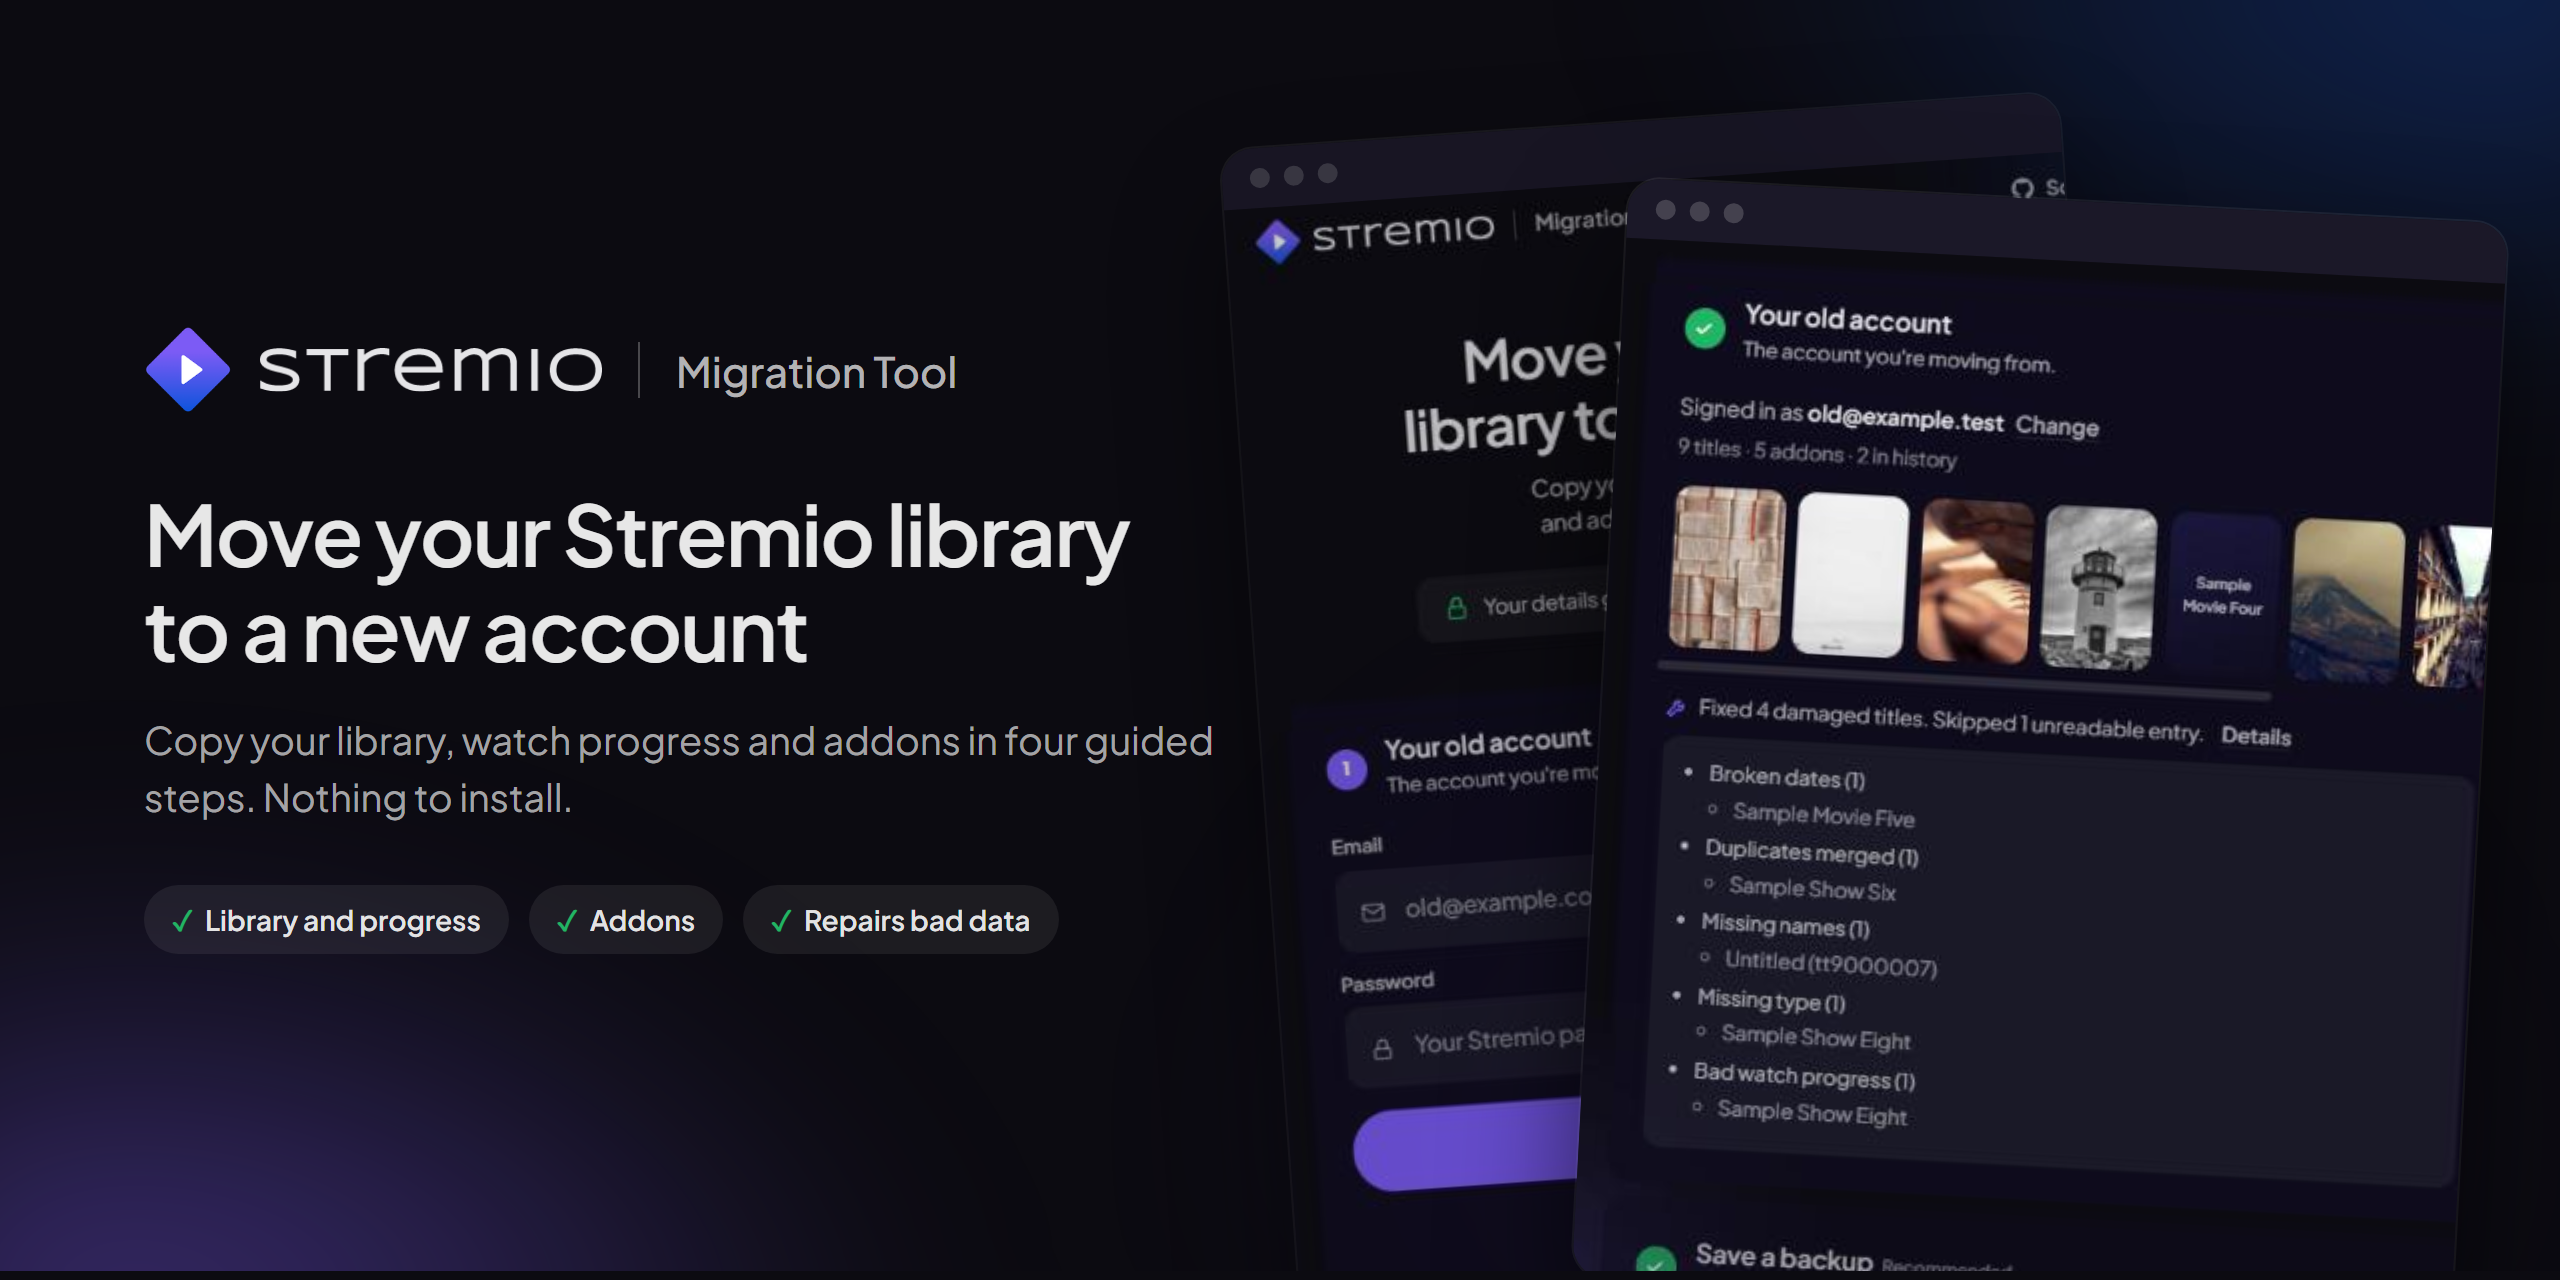
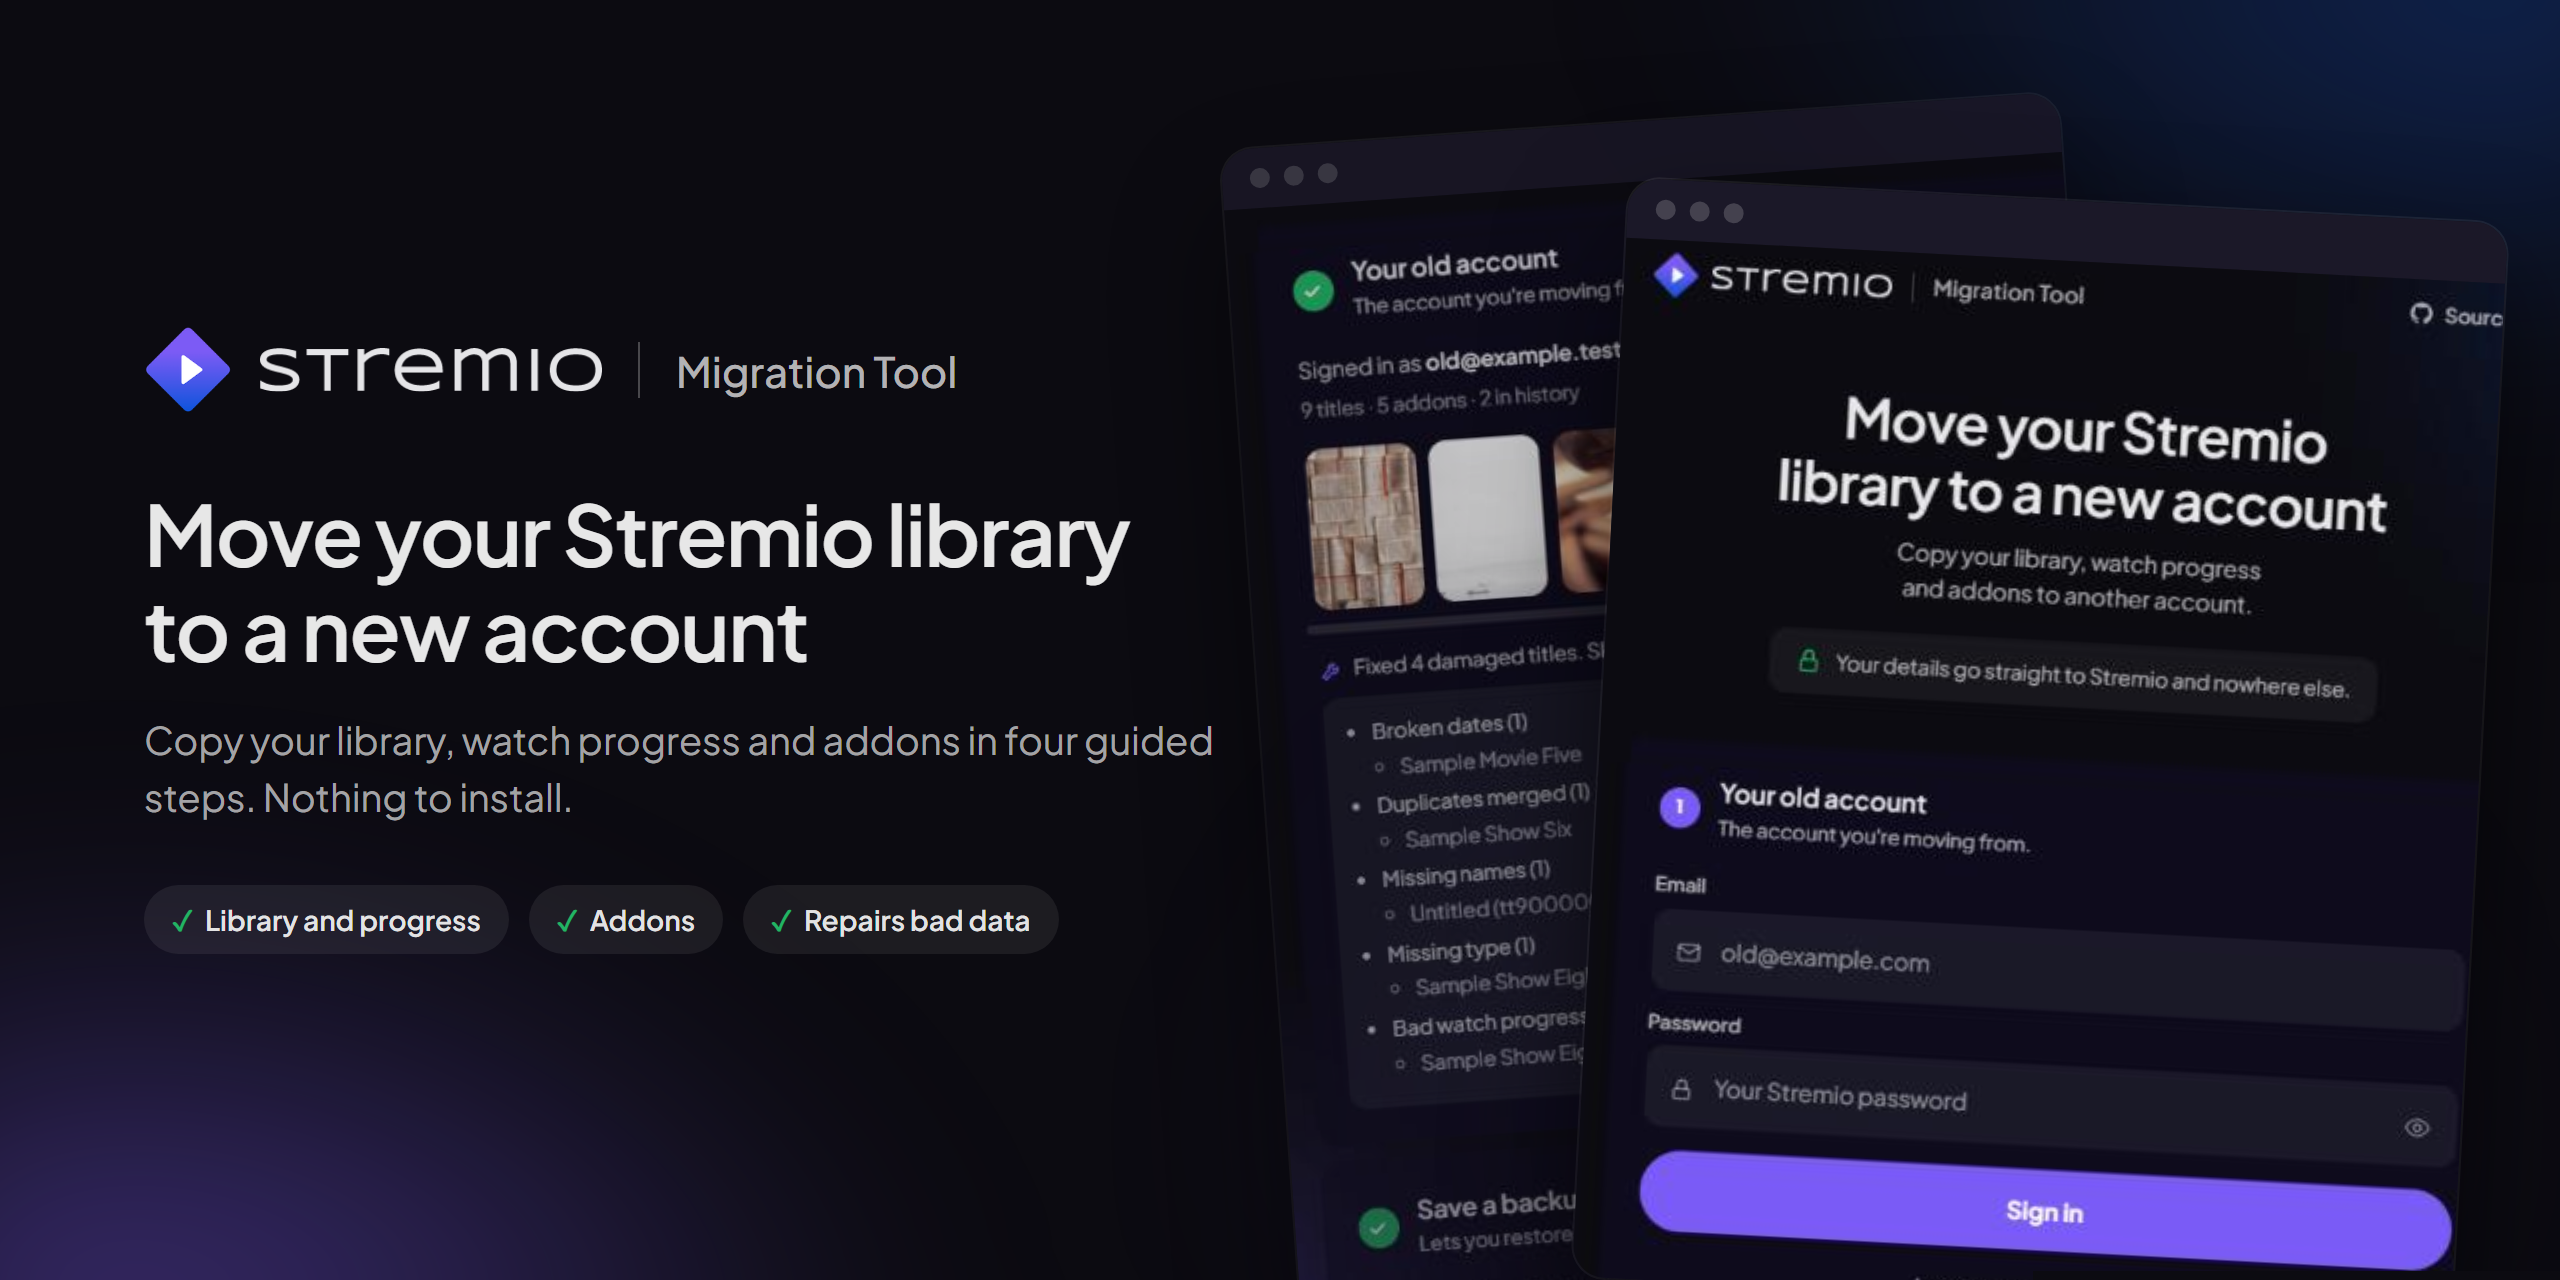
Tidy the README header and trim the usage section
Center the buttons with even spacing above and below, put the sign-in
screen in front in the hero banner, and remove the flow diagram and
the two screenshots under the steps.

diff --git a/README.md b/README.md
@@ -1,19 +1,10 @@
 <div align="center">
 
-<img src=".github/assets/hero.png" alt="Stremio Migration Tool: move your Stremio library to a new account" width="100%">
+<p><img src=".github/assets/hero.png" alt="Stremio Migration Tool: move your Stremio library to a new account" width="100%"></p>
 
-<br>
+<a href="https://robbydock.github.io/stremio-migration-tool/"><img src=".github/assets/button-open.svg" alt="Open the tool" height="52"></a> <a href="https://raw.githubusercontent.com/RobbyDock/stremio-migration-tool/main/index.html"><img src=".github/assets/button-download.svg" alt="Download a local copy" height="52"></a>
 
-<a href="https://robbydock.github.io/stremio-migration-tool/"><img src=".github/assets/button-open.svg" alt="Open the tool" height="52"></a>
-&nbsp;
-<a href="https://raw.githubusercontent.com/RobbyDock/stremio-migration-tool/main/index.html"><img src=".github/assets/button-download.svg" alt="Download a local copy" height="52"></a>
-
-<br><br>
-
-![Runs in your browser](https://img.shields.io/badge/runs_in-your_browser-7b5bf5?style=flat-square)
-![Nothing to install](https://img.shields.io/badge/install-nothing-22b365?style=flat-square)
-![Single file](https://img.shields.io/badge/single-index.html-1245a6?style=flat-square)
-![Unofficial](https://img.shields.io/badge/unofficial-not_affiliated_with_Stremio-555?style=flat-square)
+![Runs in your browser](https://img.shields.io/badge/runs_in-your_browser-7b5bf5?style=flat-square) ![Nothing to install](https://img.shields.io/badge/install-nothing-22b365?style=flat-square) ![Single file](https://img.shields.io/badge/single-index.html-1245a6?style=flat-square) ![Unofficial](https://img.shields.io/badge/unofficial-not_affiliated_with_Stremio-555?style=flat-square)
 
 </div>
 
@@ -36,31 +27,12 @@ This tool copies your **library**, **watch progress** and **addons** from one St
 
 ## 🚀 How to use it
 
-```mermaid
-flowchart LR
-    A["1⃣ Old account<br>Sign in or load a backup"] --> B["2⃣ Backup<br>Download or skip"]
-    B --> C["3⃣ New account<br>Sign in"]
-    C --> D["4⃣ Copy<br>Choose library and addons"]
-    D --> E(["🎉 Done<br>Sign in to Stremio with the new account"])
-```
-
 1. **Your old account.** Sign in to the account you are moving from. The tool reads your library and addons and checks them. If you already have a backup file, select **Load a backup file instead**.
 2. **Save a backup.** Select **Download backup**. This is optional but recommended.
 3. **Your new account.** Sign in to the account you are moving to. No account yet? Select **Create a new account**.
 4. **Copy to new account.** Choose what to copy and start. The tool confirms when every item has arrived.
 
 When it is finished, sign out of Stremio on your devices and sign in with the new account.
-
-<table>
-  <tr>
-    <td width="50%"><img src="screenshots/main.jpg" alt="Step 1: sign in to your old account"></td>
-    <td width="50%"><img src="screenshots/done.jpg" alt="Step 4: copy finished"></td>
-  </tr>
-  <tr>
-    <td align="center"><sub>Sign in and see your library</sub></td>
-    <td align="center"><sub>Copy finished and verified</sub></td>
-  </tr>
-</table>
 
 ## 🩺 Data check and repair
 
